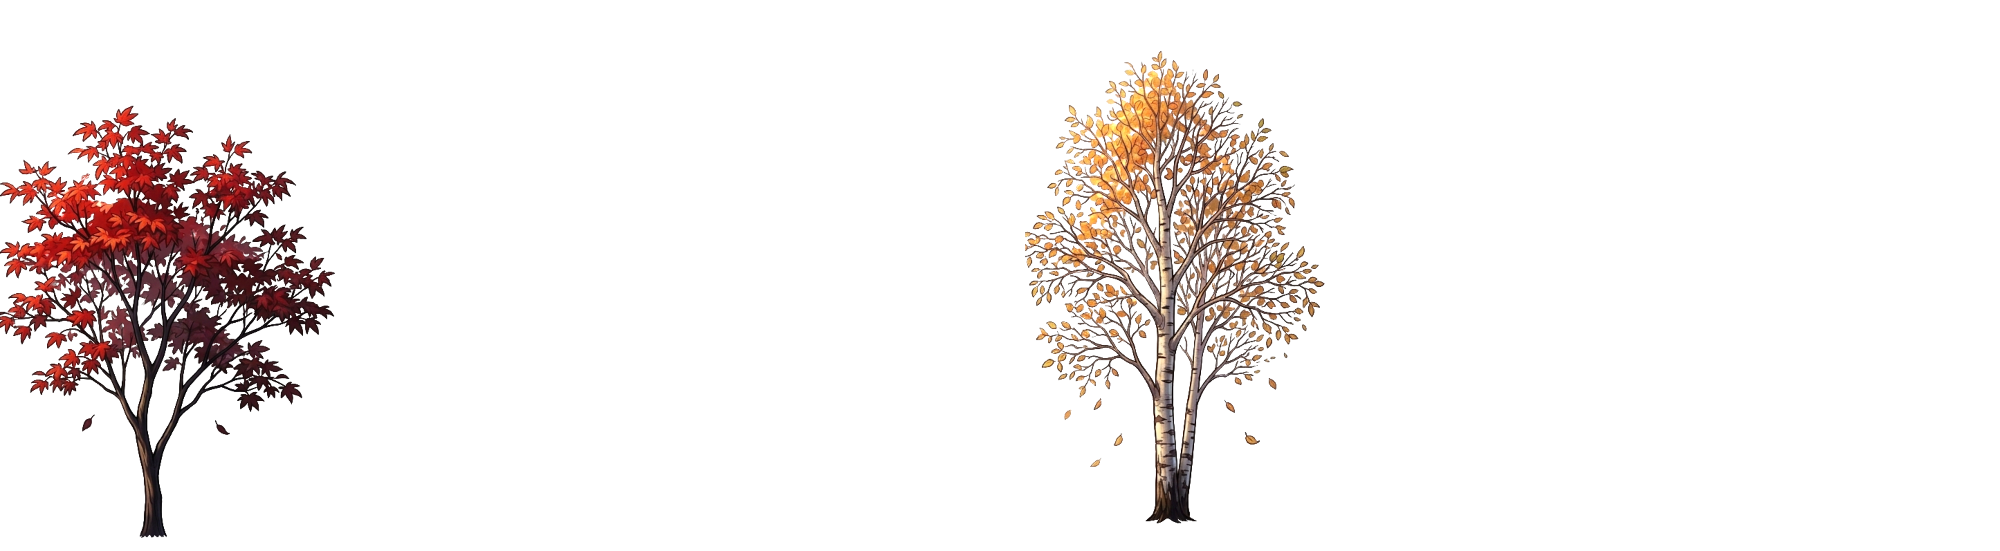
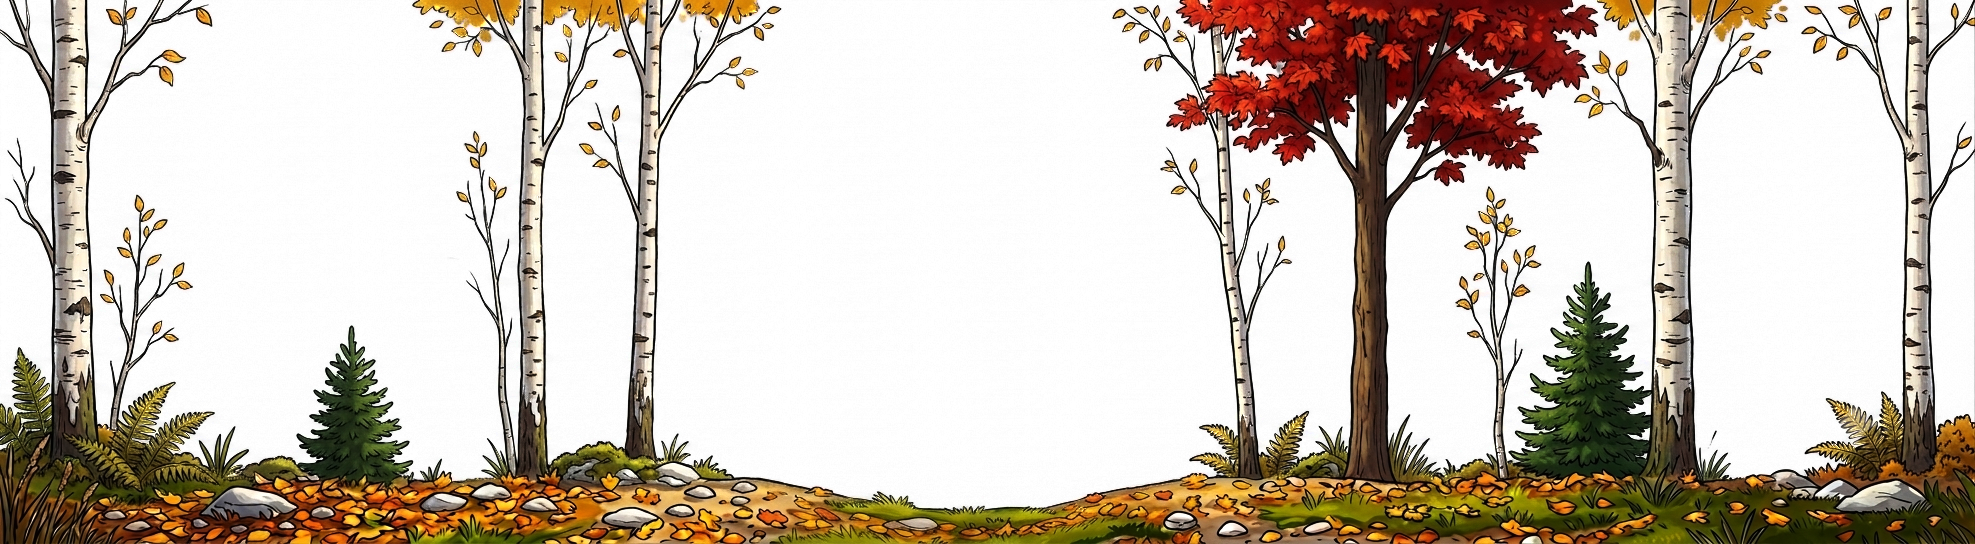
Nova grafika!

diff --git a/road5.html b/road5.html
@@ -122,11 +122,11 @@
             aspect-ratio: 1 / 1;
             transform: translateX(-50%);
             border-radius: 50%;
-            background-color: #ffffff;
-            border: 2px solid #334155;
-            box-shadow: 0 1px 4px rgba(0, 0, 0, 0.3);
+            background-color: #000;
+            border: 0px solid #fff;
+            box-shadow: 0 1px 4px rgba(255, 255, 255, 0.2);
             z-index: 4;
-            transition: left 0.15s ease;
+            /*transition: left 0.15s ease;*/
         }
         .gib-brzinomjer svg {
             width: 100%;
@@ -153,12 +153,12 @@
             <img id="gibAuto" class="gib-auto" src="https://dsvilko.github.io/gib/vozila/mini.png" alt="Vozilo">
         </div>
 
-        <img id="gibPrednji" class="gib-prednji-plan-slika" src="https://dsvilko.github.io/gib/pozadine/France/fg.png" alt="Prednji plan">
+        <img id="gibPrednji" class="gib-prednji-plan-slika" src="https://dsvilko.github.io/gib/pozadine/France/fg.png" alt="Prednji plan" onerror="this.style.display='none';">
 
         <div class="gib-brzinomjer" id="gibBrzinomjerSloj">
             <svg viewBox="0 0 100 100">
-                <path d="M 12 50 A 38 38 0 0 1 88 50" fill="none" stroke="#cbd5e1" stroke-width="9" stroke-linecap="round" />
-                <line id="gibBrzinomjerKazaljka" x1="50" y1="50" x2="12" y2="50" stroke="#dc2626" stroke-width="5" stroke-linecap="round" />
+                <path d="M 12 50 A 38 38 0 0 1 88 50" fill="none" stroke="#444" stroke-width="9" stroke-linecap="round" />
+                <line id="gibBrzinomjerKazaljka" x1="50" y1="50" x2="12" y2="50" stroke="#ff2626" stroke-width="7" stroke-linecap="round" />
                 <circle cx="50" cy="50" r="5.5" fill="#0f172a" />
             </svg>
         </div>
@@ -170,8 +170,8 @@
     function nasumice(min, max) {
         return min + Math.random() * (max - min);
     }
-    var VOZILA = ['mini.png', 'beetle.png', 'mustang.png'];
-    var POZADINE = ['Istra', 'pored-mora', 'France', 'sumska-cesta', 'jesen', 'Constable'];
+    var VOZILA = ['mini', 'beetle', 'mustang','vw-van','yaris','yazz'];
+    var POZADINE = ['Istra2', 'vinograd', 'pored-mora', 'France', 'sumska-cesta', 'jesen', 'Constable','English-village', 'Alps','Dalmacija','Nizozemska','Plitvice'];
     
     // --- Postavi kazaljku brzinomjera na fiksni položaj (konstantna brzina) ---
     function postaviKazaljku() {
@@ -192,7 +192,7 @@
     var TRAJANJE = 10000; // ms za prijelaz cijele ceste
     var pocetak = null;
 
-    auto.src = 'https://dsvilko.github.io/gib/vozila/' + VOZILA[Math.floor(Math.random() * VOZILA.length)];
+    auto.src = 'vozila/' + VOZILA[Math.floor(Math.random() * VOZILA.length)]+ '.png';
     let poz = POZADINE[Math.floor(Math.random() * POZADINE.length)];
     gibPozadina.src = 'pozadine/' + poz + '/bg.jpg';
     gibPrednji.src = 'pozadine/' + poz + '/fg.png';
